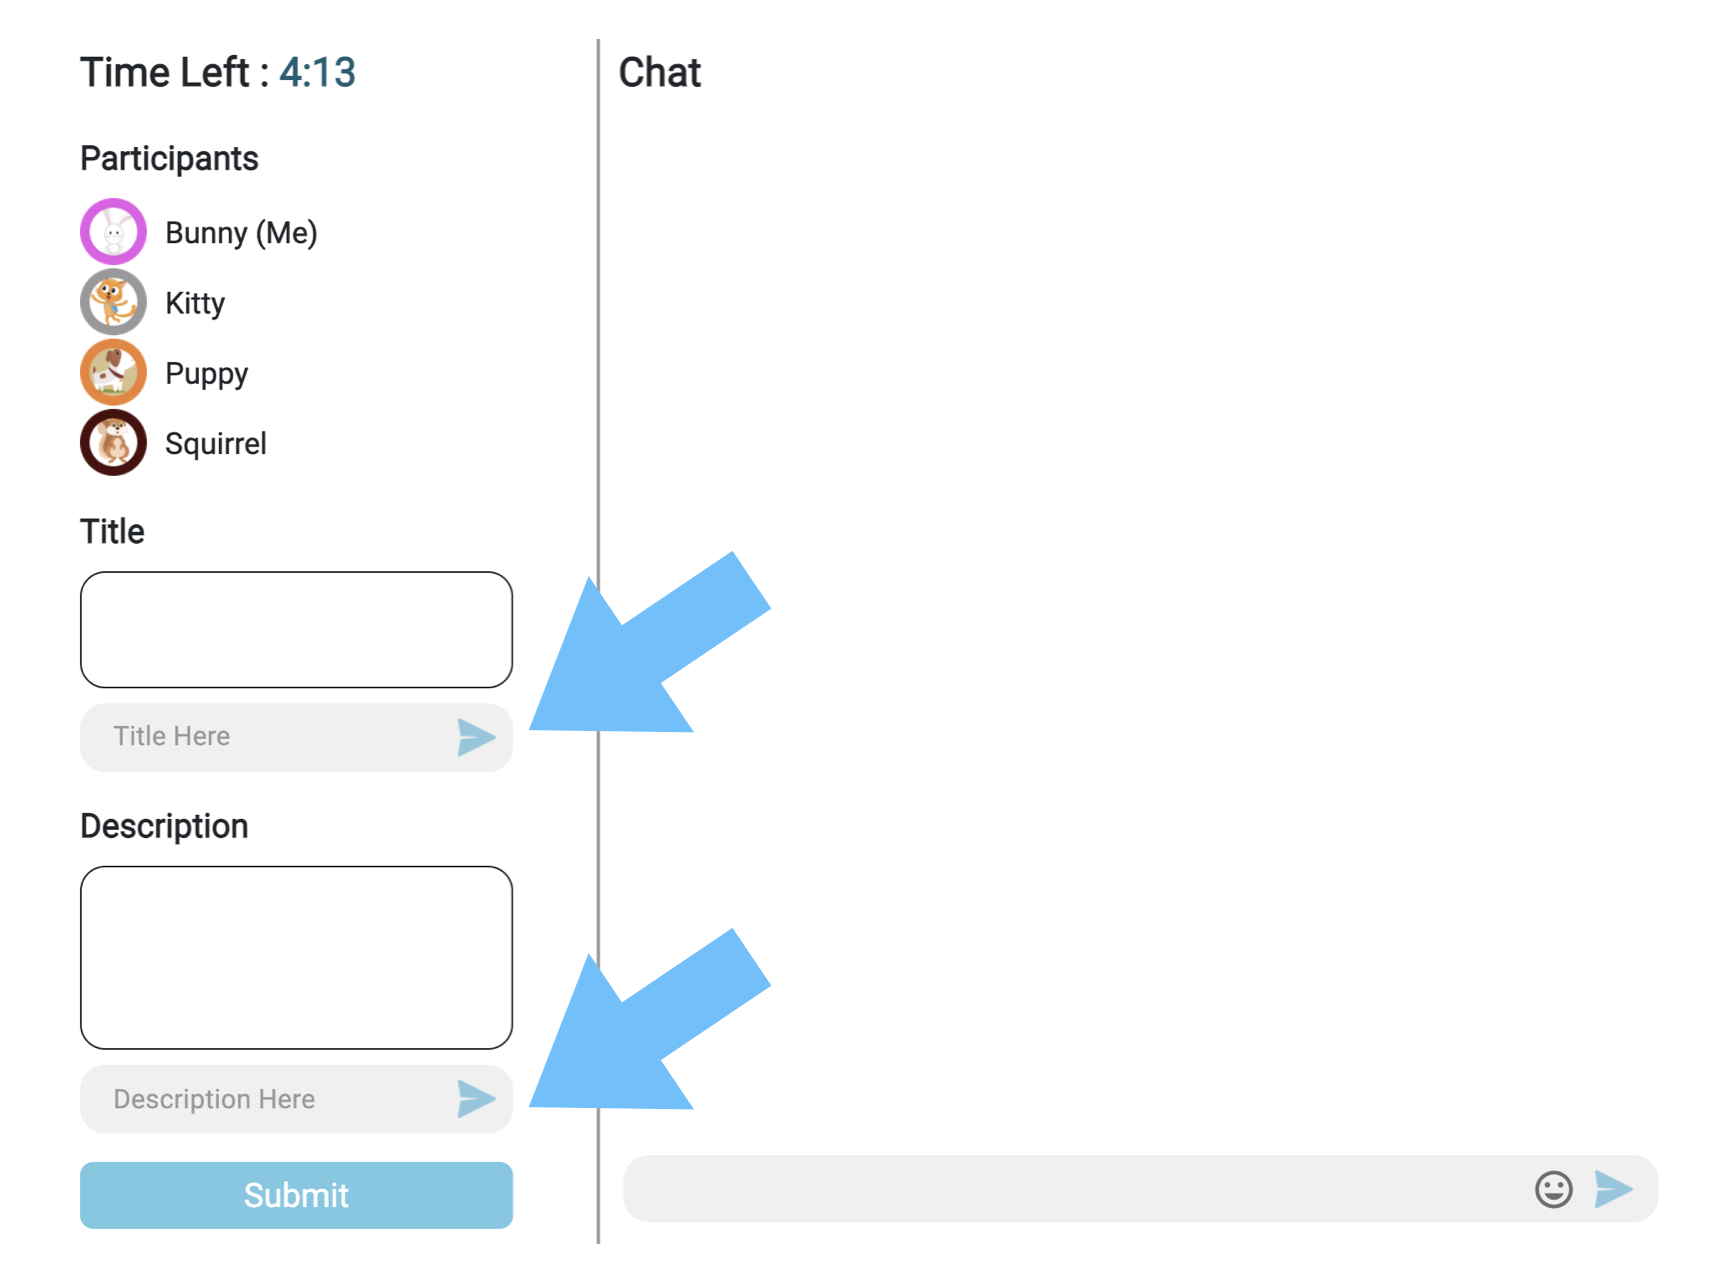
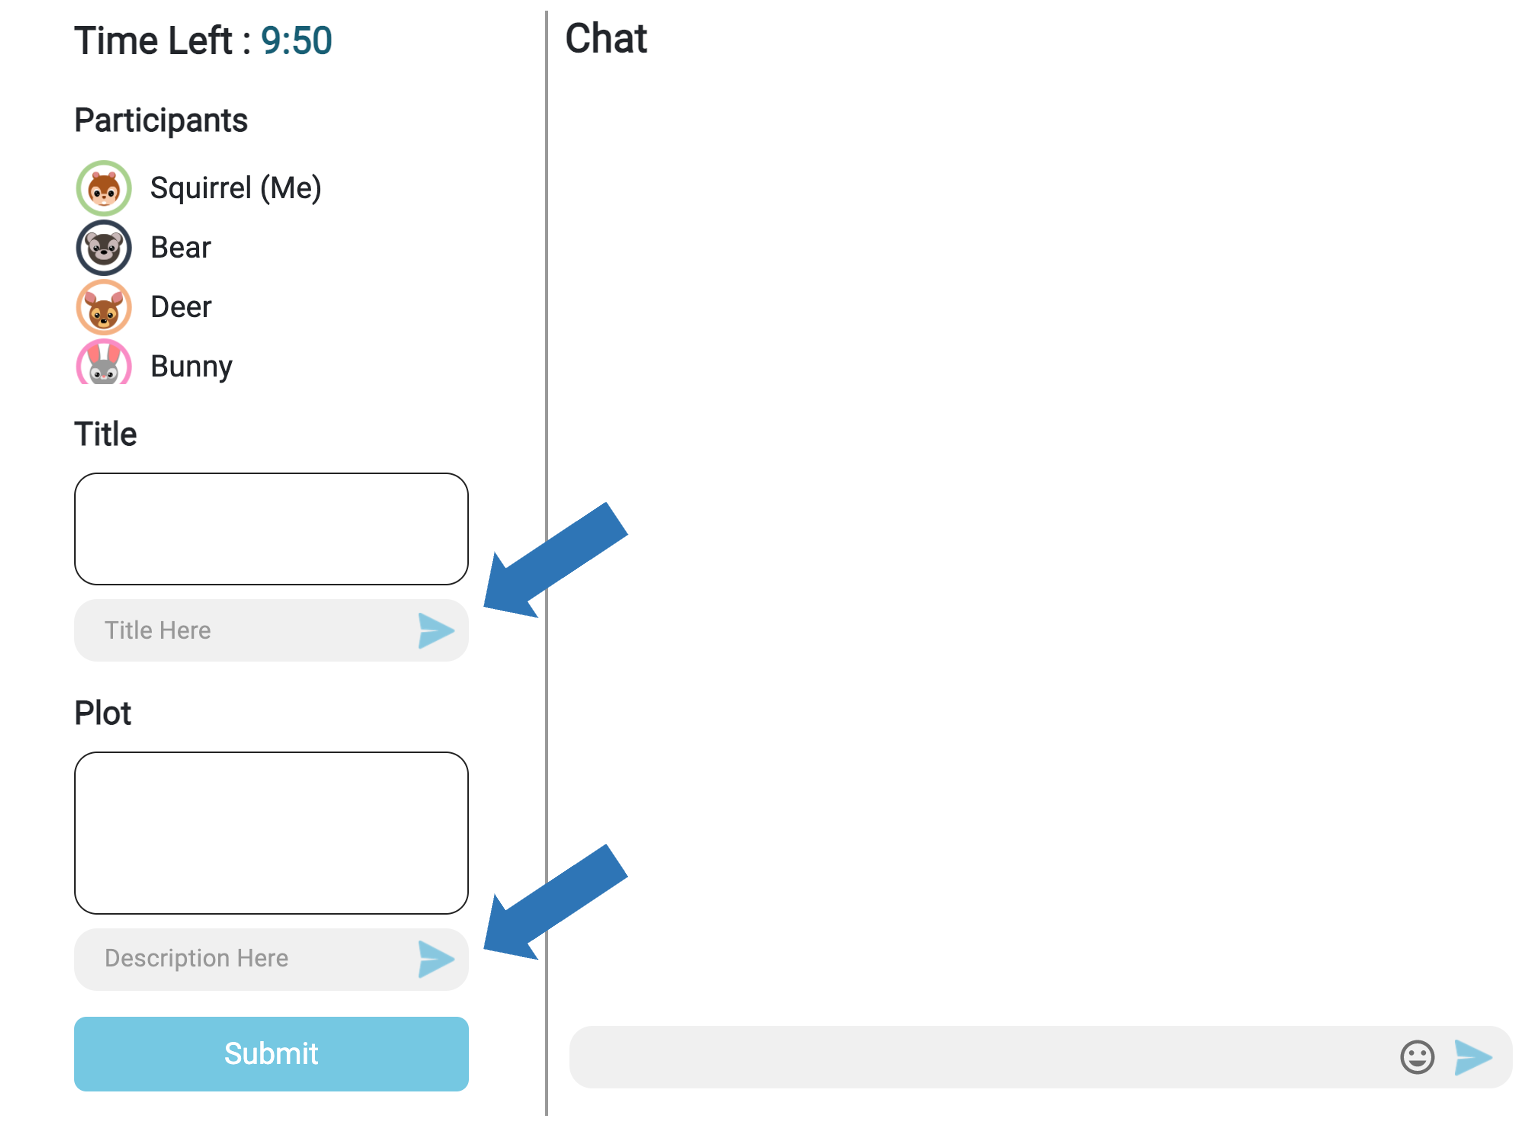
final v2

diff --git a/src/Components/CreativeTask/Chat.js b/src/Components/CreativeTask/Chat.js
@@ -206,8 +206,8 @@ export default class Chat extends Component {
 
 
     handleSubmit = () => {
-        if ((Date.now() - this.props.time) > 240000){
-            alert("For the sake of the experiment, you can only submit the answer after 4 minutes have passed. Please discuss more and decide!")
+        if ((Date.now() - this.props.time) < 360000){
+            alert("For the sake of the experiment, you can only submit the answer after 6 minutes have passed. Please discuss more and decide!")
         }
         else if (this.state.confirmation){
             alert("Submission already in progress")
@@ -358,7 +358,7 @@ export default class Chat extends Component {
                                             <tbody>
                                                 <tr>
                                                     <td className = "TimerInt" colSpan = {2}>
-                                                        Time Left : <span className = "blue"><Countdown date={this.props.time + 100000000} renderer={this.renderer} /></span>
+                                                        Time Left : <span className = "blue"><Countdown date={this.props.time + 600000} renderer={this.renderer} /></span>
                                                     </td>
                                                 </tr>
                                                 <tr>

diff --git a/src/Components/Lobby/Pay.js b/src/Components/Lobby/Pay.js
@@ -46,7 +46,7 @@ export default class Pay extends Component {
                                         <td className = "bodyLobby">
                                             <br/>
                                             <br/>
-                                            We're sorry to say that 4 members didn't join the room in 20 minutes.
+                                            We're sorry to say that 6 members didn't join the room in 30 minutes.
                                             <br/>
                                             <br/>
                                             We would still pay you for the waiting time ($2), so please note down the survey code below.

diff --git a/src/Components/Ending/Ending.js b/src/Components/Ending/Ending.js
@@ -36,7 +36,7 @@ export default class Ending extends Component {
                                             The task is over! Thank you again for participating.
                                             <br/>
                                             <br/>
-                                            The survey code is: {this.props.roomName}
+                                            The survey code is: <b className = "blue">{this.props.roomName}</b>
                                             <br/>
                                             <br/>
                                             Have a good day!
